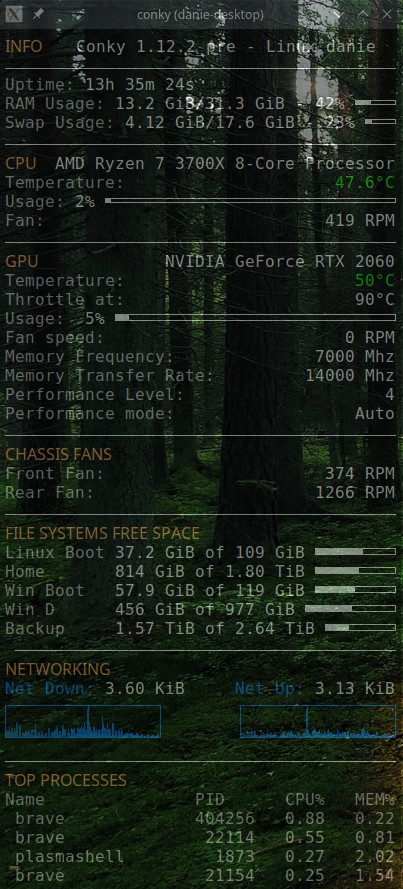
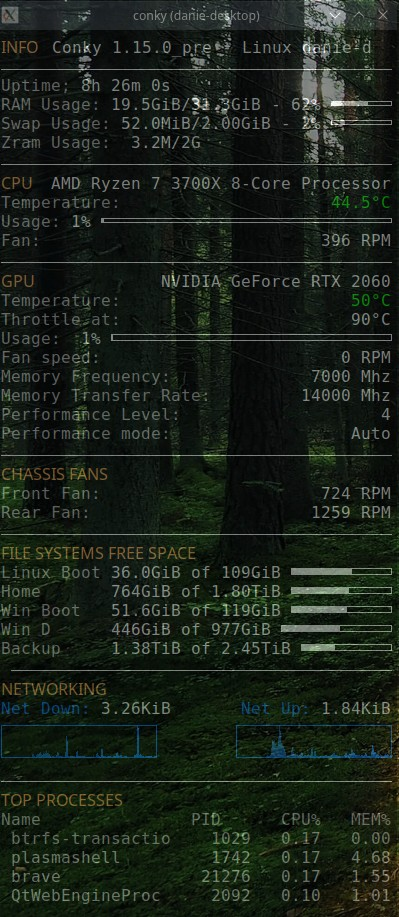
Zram usage added
Readme expands on why and how this was added.

Changed region(s): [[0.0, 0.0, 1.0, 1.0], [0.4211, 0.9719, 0.4511, 1.0]]

diff --git a/README.md b/README.md
@@ -2,8 +2,19 @@
 
 Conky is a free, light-weight system monitor for X, that displays any kind of information on your desktop. It's official project is at https://github.com/brndnmtthws/conky.
 
-This project shares the Conky code I'm using for my computer's performance stats on the desktop. The screenshot below shows the current setup I have, and I shareda  video about my initial install at https://youtu.be/ItZAMXO-FIA, which shows the temperature color automatically changing between red and green depending on whether the temperature value is above or below a certain threshold. In this case I set it to 55 just for illustrative purposes, but you could make that 75 or any other value.
+This project shares the Conky code I'm using for my computer's performance stats on the desktop. The screenshot below shows the current setup I have, and I shared a video about my initial install at https://youtu.be/ItZAMXO-FIA, which shows the temperature color automatically changing between red and green depending on whether the temperature value is above or below a certain threshold. In this case I set it to 55 just for illustrative purposes, but you could make that 75 or any other value.
 
 The shared file is normally found on Linux at ~/.config/conky/conky.conf.
 
 ![Screenshot](images/conky-screenshot.jpg)
+
+# Zram usage display in Conky
+I added this line on 17 November 2022. The reason is that the normal swap variables in Conky are read from the '/proc/meminfo' file, but these swap stats appear to only show the uncompressed data used and do not agree at all with the output of the zramctl command.
+
+We can read the formatted output of /sys/block/zram0/mm_stat but the varying whitespace separations really throw things out of alignment (it seems to right aline the columns and adjust spacing). This would have been useful if the bytes returned could have been formatted and calculated, but Conky does not provide this functionality natively.
+
+So working with the zramctl command, I found it has a number of useful options to control the output displayed. You can trim space (using --raw) and also specify no headings, and even specify just a specific column to filter on by providing its name. So using a command such as 'zramctl --raw --noheadings --output TOTAL' will return just the single value for the TOTAL used in Zram.
+
+Again this includes the qualifying suffix, and at differing powers, so we cannot use these outputs to calculate anything useful like a percentage, but for now, the display will at least be tidy, and will make sense.
+
+I've not included a test condition so if you do not use Zram, then you can just comment out that line.
